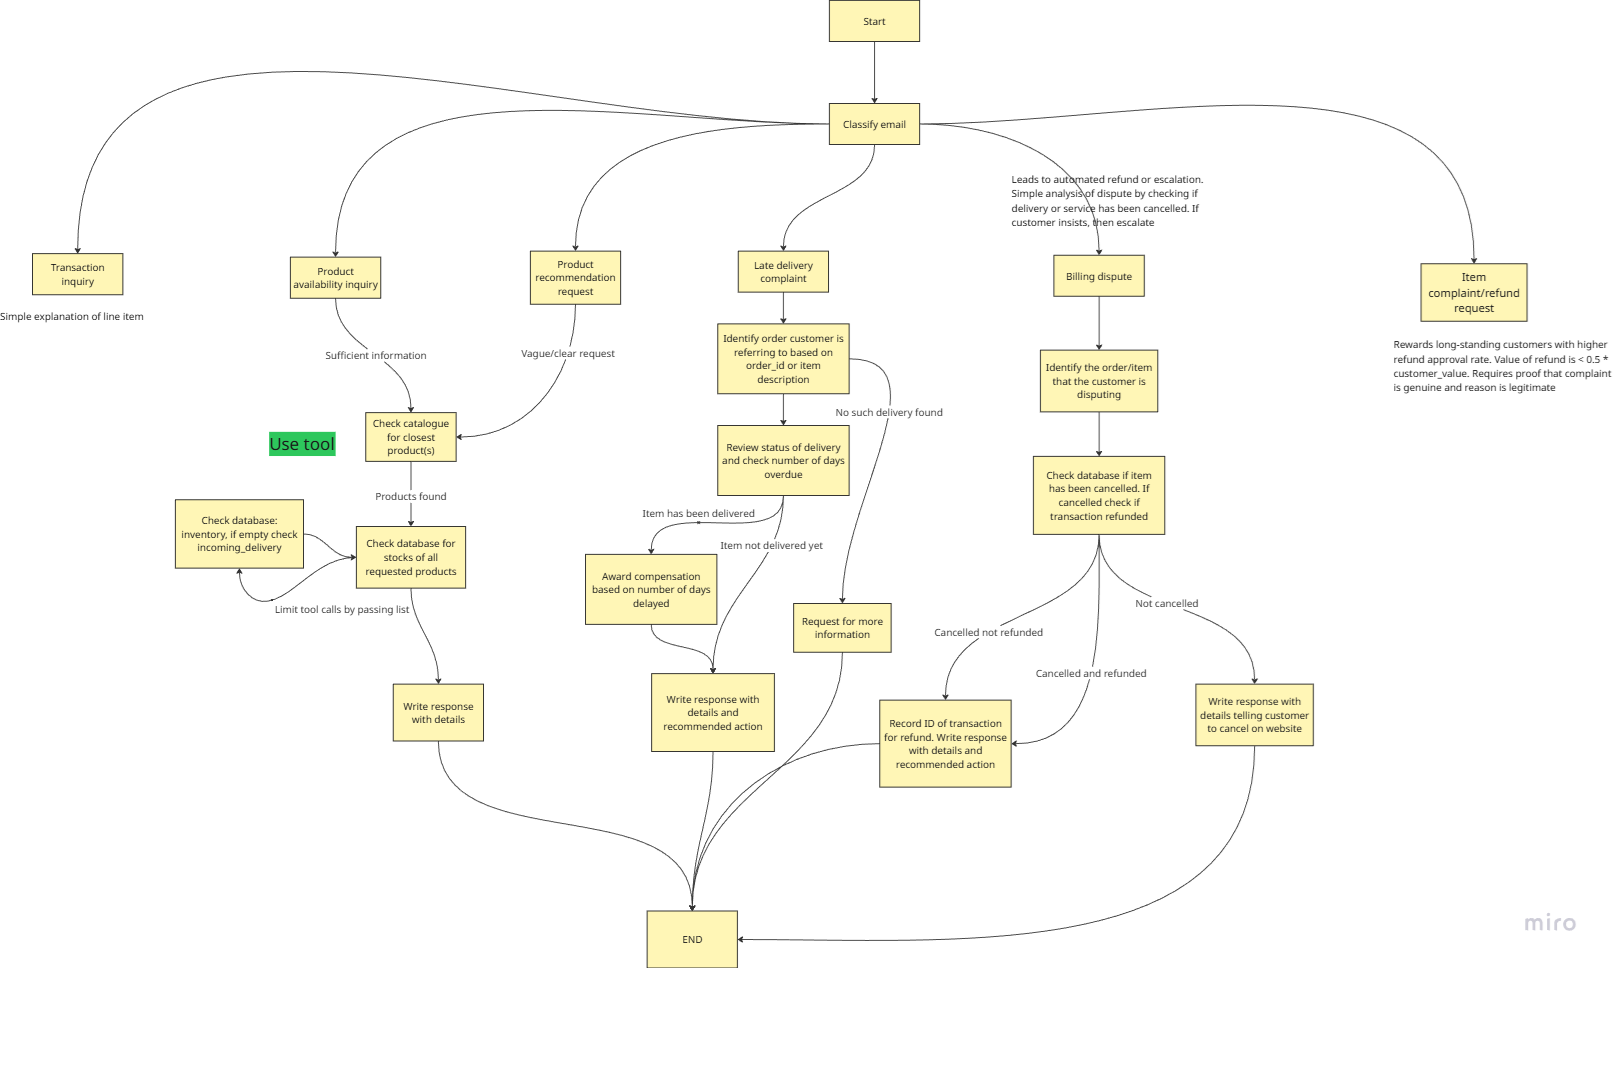
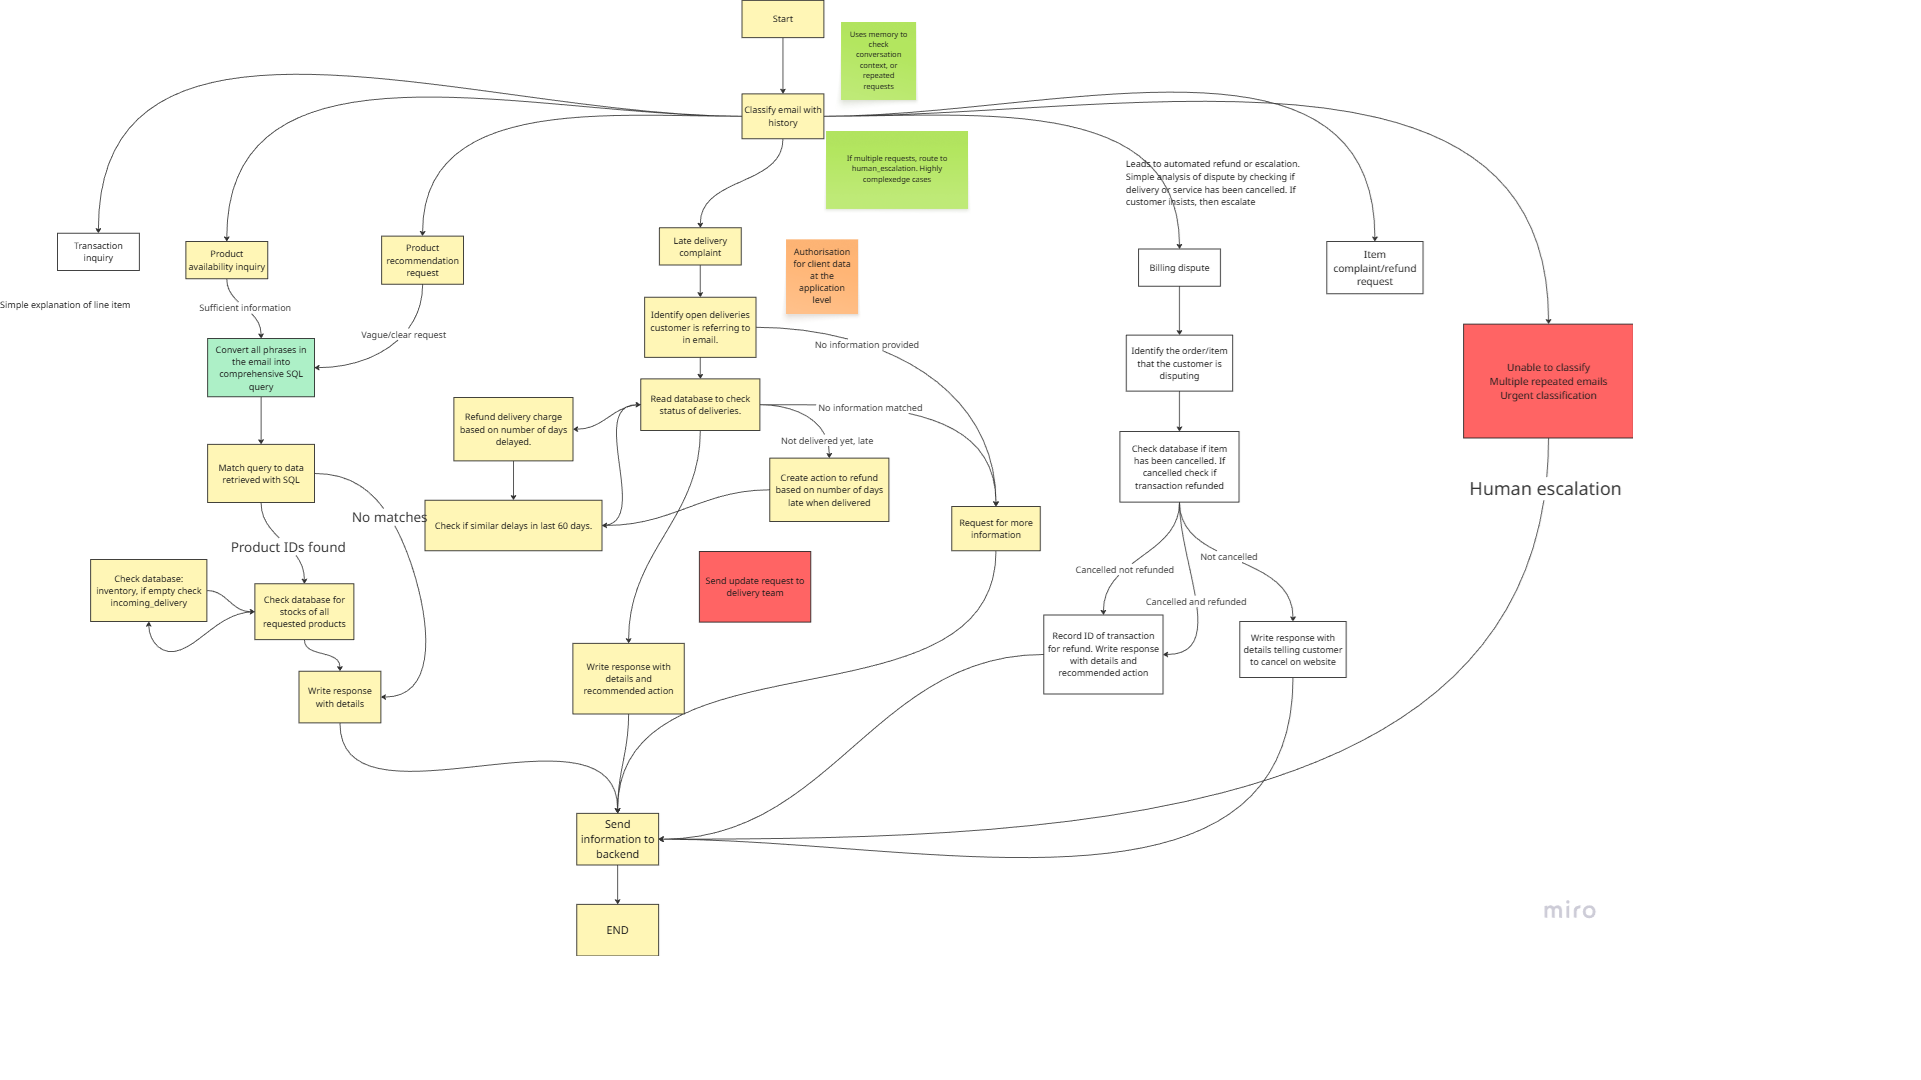
Visual and doc update

diff --git a/Agent evaluation framework.md b/Agent evaluation framework.md
@@ -1,0 +1,67 @@
+# **Agent evaluation framework**
+
+This document outlines the approach to evaluating the CRM email agent system by describing the functional aspects of the agentic system that require evaluation, how they will be evluated, and the offline evaluation methodology.
+
+# Evaluation methodology
+Construct evaluation set that defines input state and expected outcome. LLM mutatations to introduce ambiguity/inject rare idioms/mutate working examples.  Use LLM to generate distributional interpolation (e.g., Blend two intents to create an ambiguous request).
+
+Write functions to read from a structured evaluation set to test tools/planning/evaluation that output metric scores
+
+Per each evaluation, load accompanying data, run test, finally remove data: 
+- Internal SQL database
+- Agent memory in PostGres
+
+# What to evaluate
+**Tool evaluation**
+- Email classifier with memory
+    - Classification
+    - Urgency
+- get_comprehensive_product_query
+    - Converts product email into sql query for single or multiple products. If email question cannot be understood, returns CANNOT_ANSWER
+- find_closest_product
+    - matches database output from SQL query output with customer query to identify matching product(s)
+- get_product_availability
+    - Deterministic tool, checks company table for a product_id, if none, checks incoming_deliveries table
+- find_customer_order
+    - Extracts relevant tracking numbers from a customer's email
+- check_deliveries
+    - Check's customer's open deliveries, checks for matches, returns string responses in context and actions (python lists) to take (that a tool would use, but HITL is required for all actions in this system)
+
+**Planning evaluation**
+- check_inventory_llm_call
+    - Plans what tool calls (get_product_availability) to make and what parameters
+
+**End-to-End evaluation**
+- write_response
+    - generates an email response based on context, email_classification, and email
+
+# Evaluation metrics for each system
+## Email classifier
+This is a structured llm invocation.
+
+Classification
+- This uses accuracy to determine how many emails were correctly classified
+
+Urgency
+- This evaluate the system's ability to classify emails as Urgent using Precision/Recall, as this is the only important category.
+
+## get_comprehensive_product_query
+This is an llm invocation. Use an LLM-judge to return a score of 0-1
+
+## find_closest_product
+This input state is an email product query and a string that represents tabular output from a database. The LLM extracts the matching product IDs and outputs a list of product ids that match the query. Measure with Precision/Recall
+
+## get_product_availability
+This is a deterministic function, input is simply data in SQL and the output is a string. Measure with Accuracy to see if strings are correct.
+
+## find_customer_order
+The output is a list of tracking numbers extracted from an email. Measure with precision/recall
+
+## check_deliveries
+This is a deterministic function that outputs fixed strings into lists, input is simply data in SQL. Measure context and accuracy lists with precision/recall
+
+## check_inventory_llm_call
+This is an llm invocation planner that decides what tools to call and what parameters to call them with.
+
+### write_response
+This function looks at context, email classification, customer email and generates a response. This should be evaluated with ROUGE/METEOR/Bertscore.

diff --git a/README.md b/README.md
@@ -17,3 +17,6 @@ A Multi-agent system that handles customer support emails
 
 ### Agent diagram
 ![System diagram](images/agentGraph.png "Optional title")
+
+### Python frameworks
+![System diagram](images/pythonLibraries.png "Optional title")
